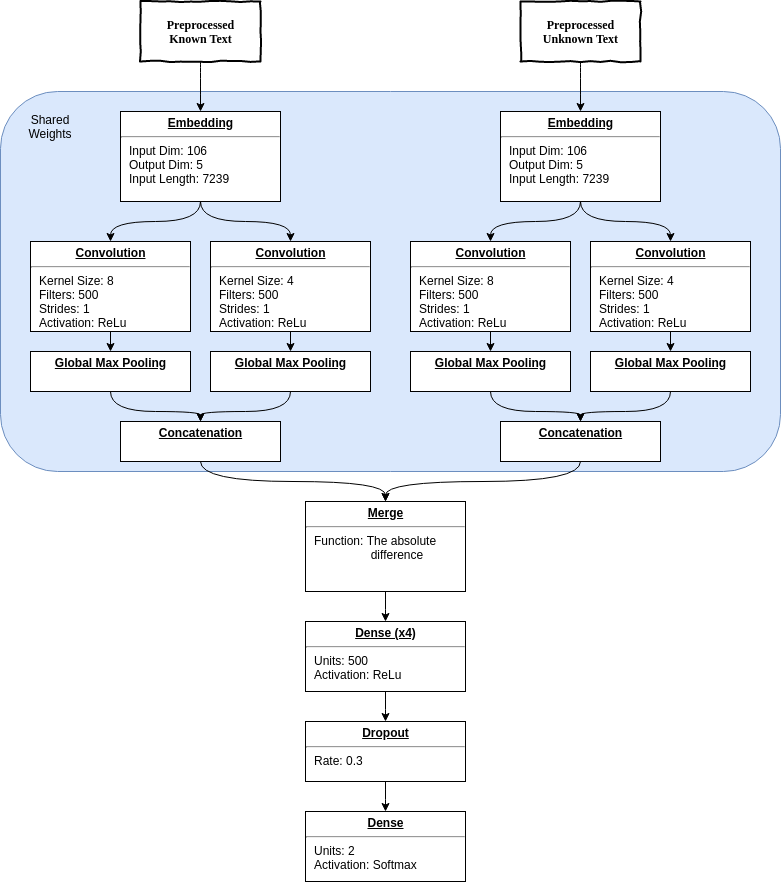
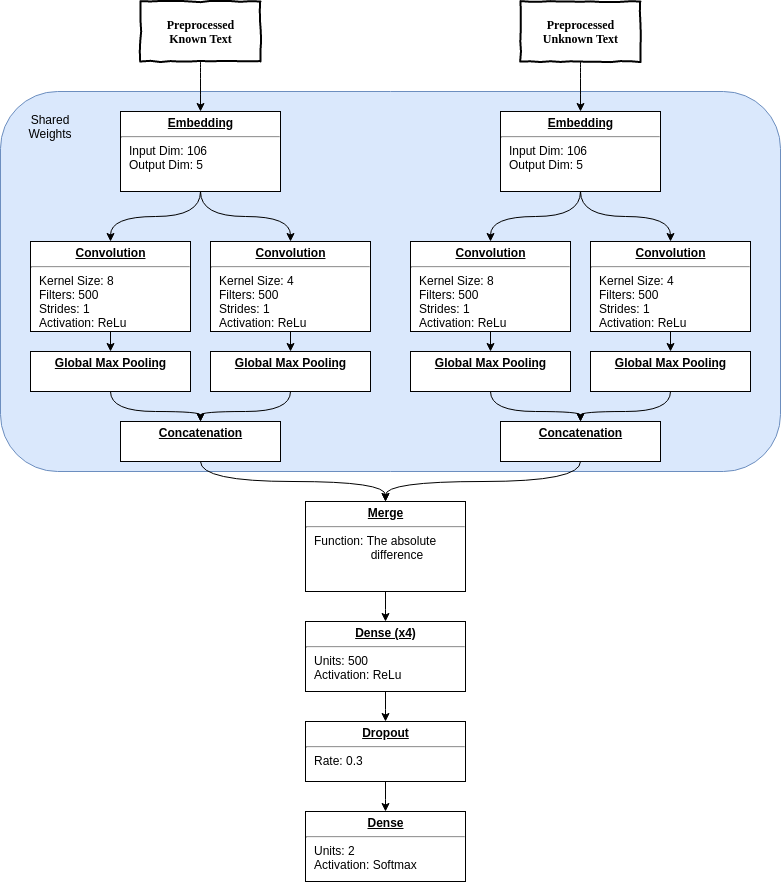
Altered glossary and model accordingly

diff --git a/report/experiments.tex b/report/experiments.tex
@@ -311,8 +311,6 @@ experiments, we used a 0.5 threshold for classification.
             \begin{compactdesc}
                 \item[Input Dim] Size of vocabulary.
                 \item[Output Dim] Size of vector used to represent embedding.
-                \item[Input Length] Length of the input sequence, when it is
-                    constant.
             \end{compactdesc}
             \end{minipage}                                                    \\
             \hline
